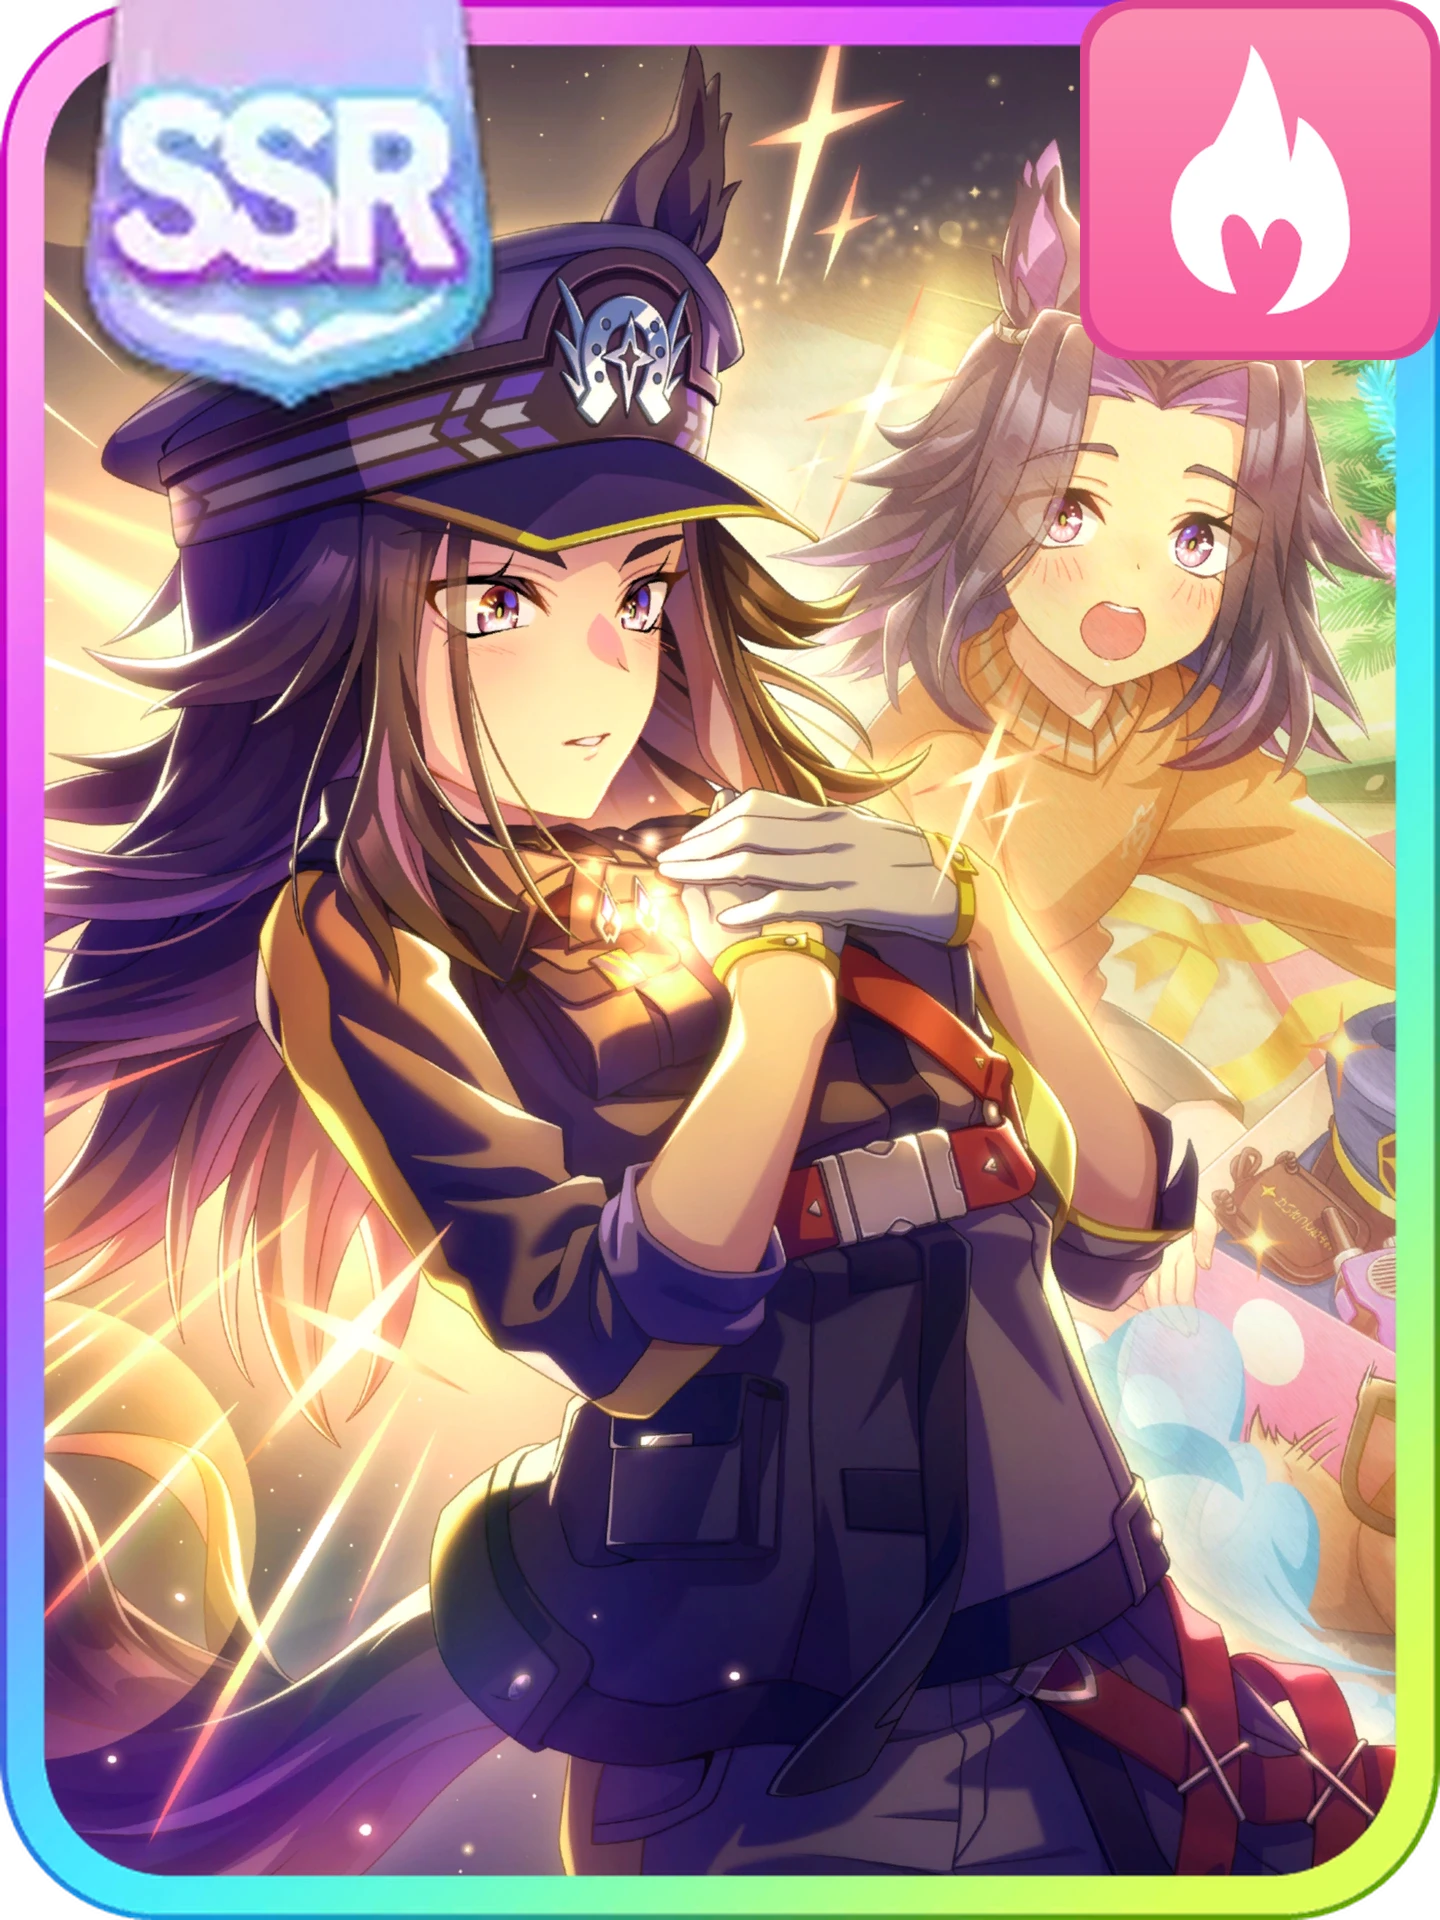
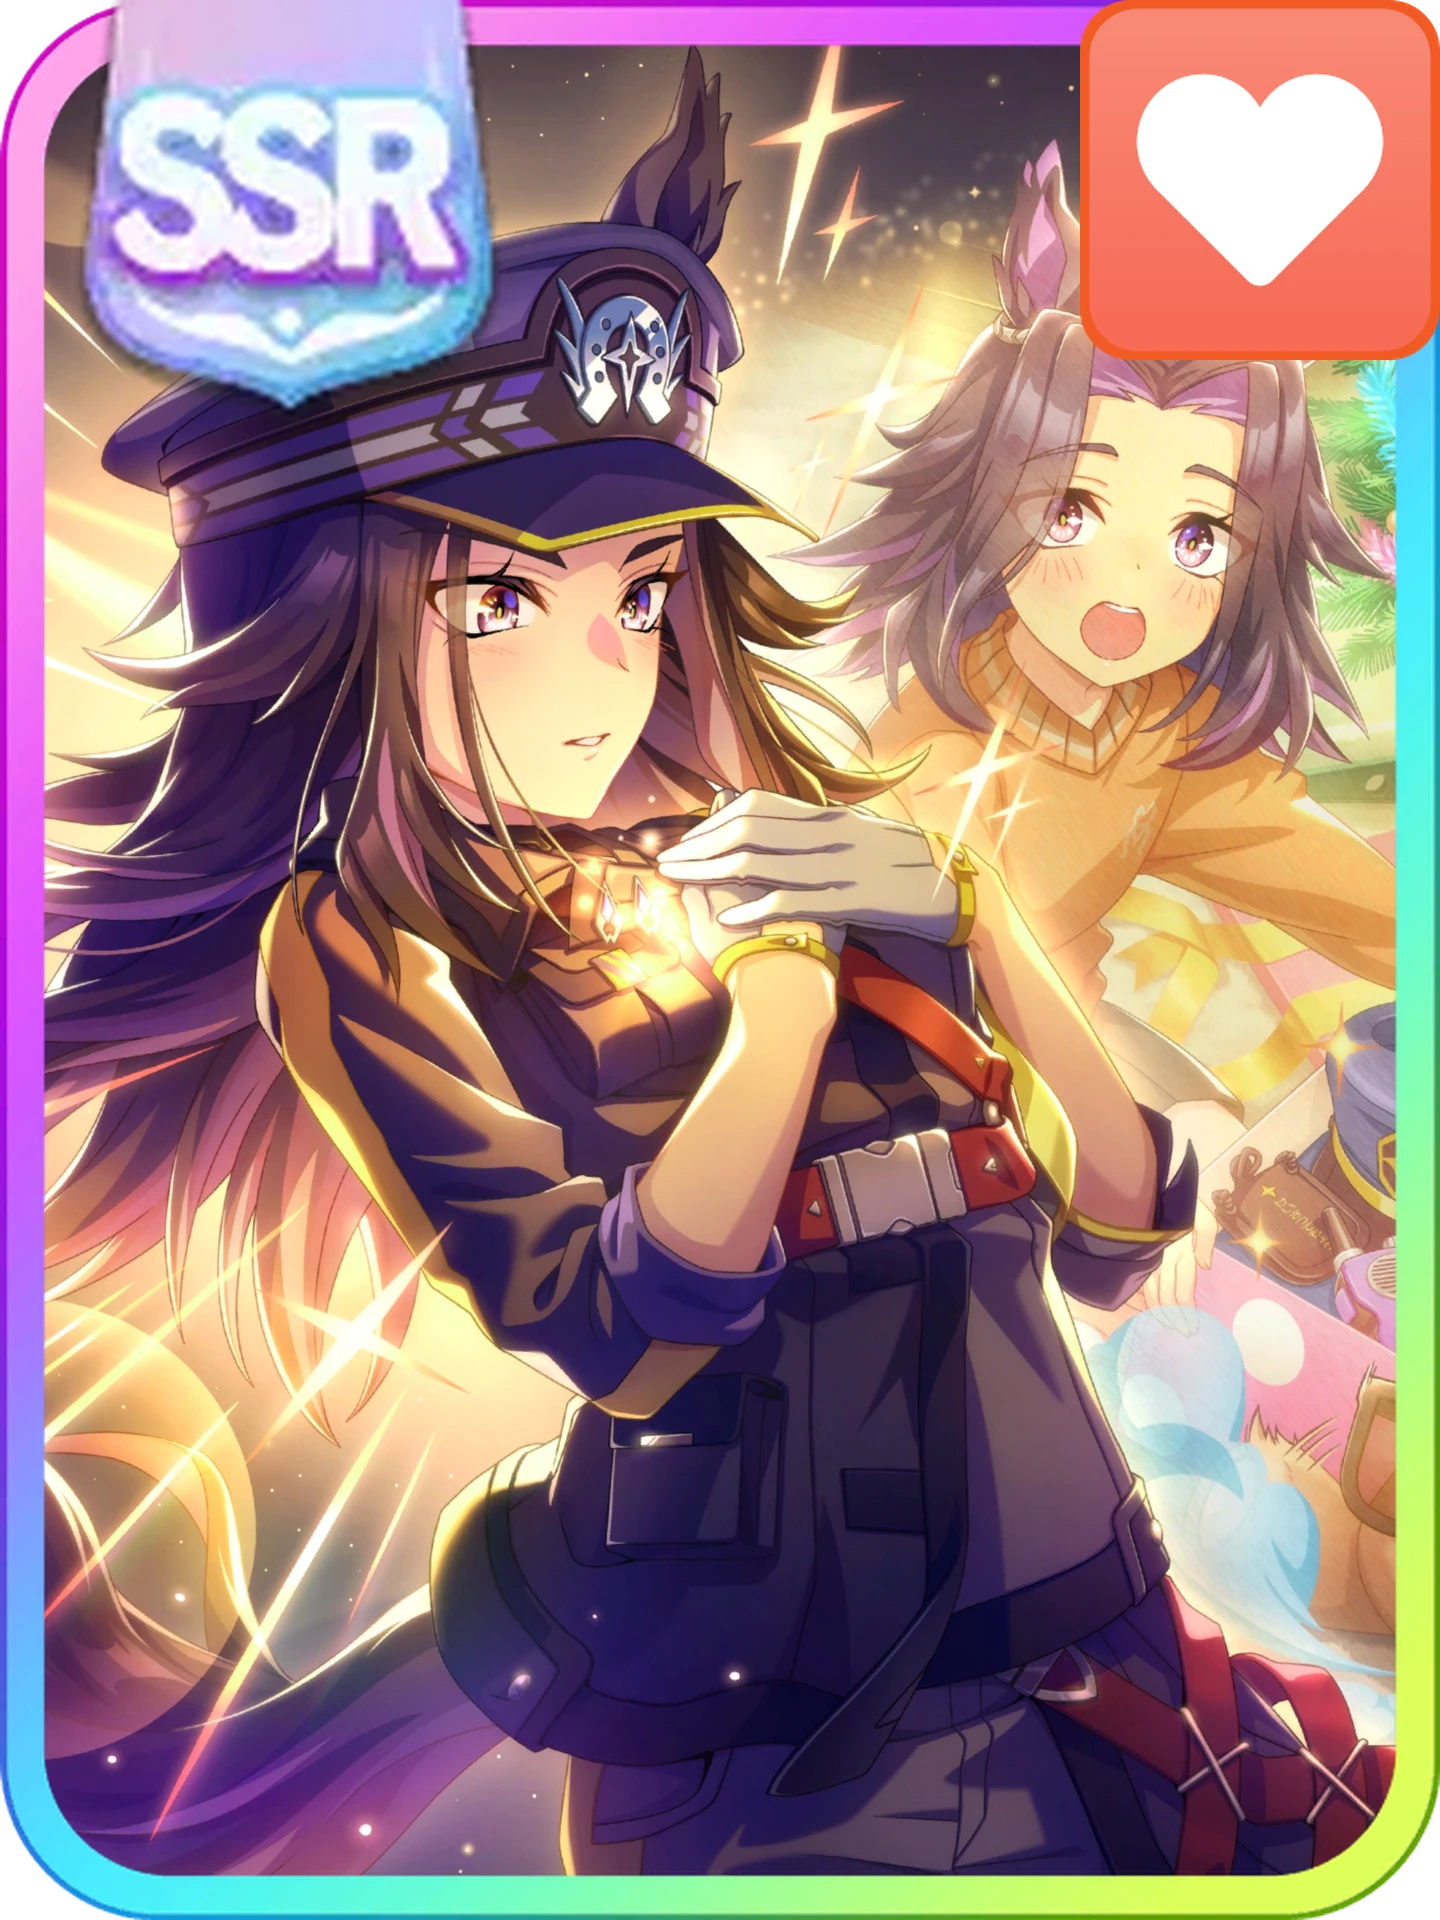
fix: correct command_id→type mapping and improve thumb detection
- 101=speed, 102=power, 103=guts, 105=stamina, 106=wit
- Also detect support_card_{id} files (no tex_ prefix) as thumbnails
- Log skipped cards at warning level for visibility

Changed region(s): [[0.75, 0.0, 1.0, 0.1875]]

diff --git a/compose_cards.py b/compose_cards.py
@@ -59,9 +59,9 @@ RARITY_MAP = {1: "R", 2: "SR", 3: "SSR"}
 # command_id → type icon name (matches filenames in static/overlay/type/)
 COMMAND_TYPE_MAP = {
     101: "speed",
-    102: "stamina",
-    103: "power",
-    105: "guts",
+    102: "power",
+    103: "guts",
+    105: "stamina",
     106: "wit",
 }
 
@@ -235,6 +235,8 @@ def composite_support_cards(
     # Discover input files: (card_id, path, needs_frame)
     tex_pattern = re.compile(r"tex_support_card_(\d+)\.(webp|png)$")
     thumb_pattern = re.compile(r"support_thumb_(\d+)\.(webp|png)$")
+    # support_card_{id} (without tex_ prefix, not _s_) is also a thumbnail with frame
+    card_thumb_pattern = re.compile(r"support_card_(\d+)\.(webp|png)$")
 
     # tex files: raw art, need frame + badges
     work: list[tuple[int, Path, bool]] = []
@@ -251,6 +253,8 @@ def composite_support_cards(
     # thumb files: already have frame, just need rarity + type badges
     for f in input_dir.iterdir():
         m = thumb_pattern.match(f.name)
+        if not m:
+            m = card_thumb_pattern.match(f.name)
         if m:
             cid = int(m.group(1))
             if (card_ids is None or cid in card_ids) and cid not in seen_ids:
@@ -270,7 +274,7 @@ def composite_support_cards(
     for cid, art_path, needs_frame in sorted(work):
         meta = metadata.get(cid)
         if not meta:
-            log.debug("No metadata for card %d, skipping", cid)
+            log.warning("No metadata for card %d in master.mdb, skipping", cid)
             processed += 1
             continue
 